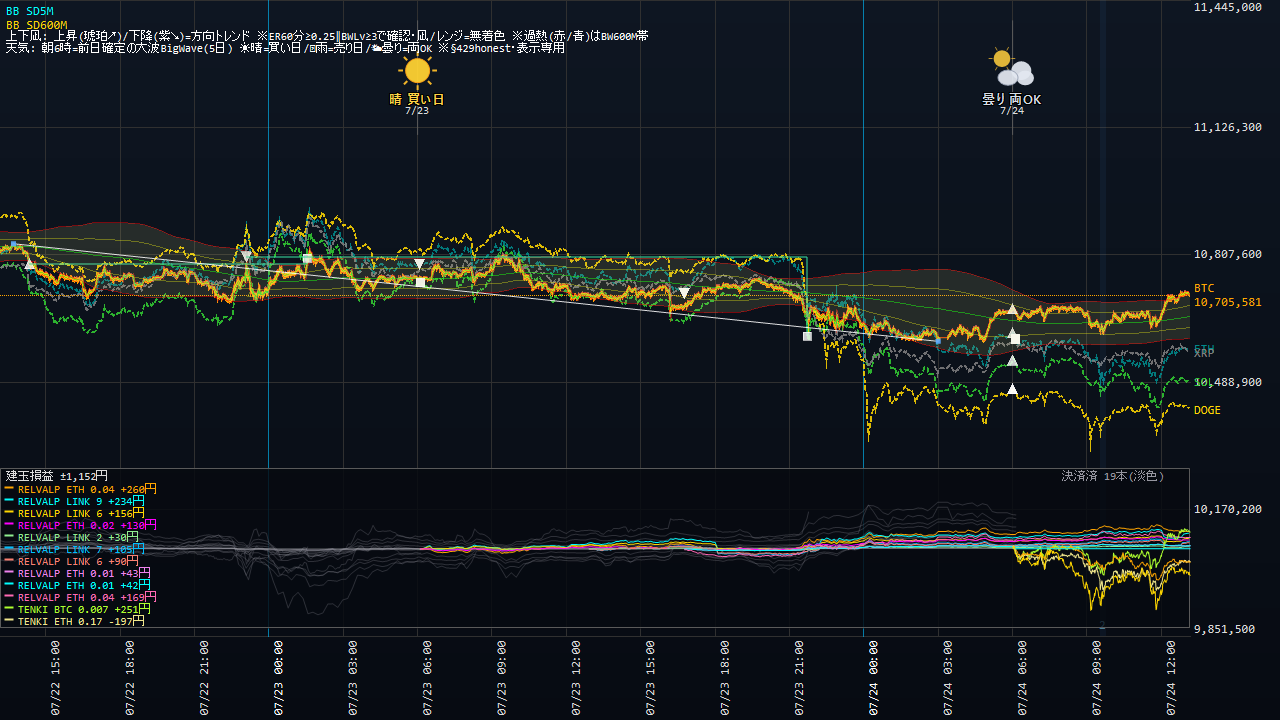
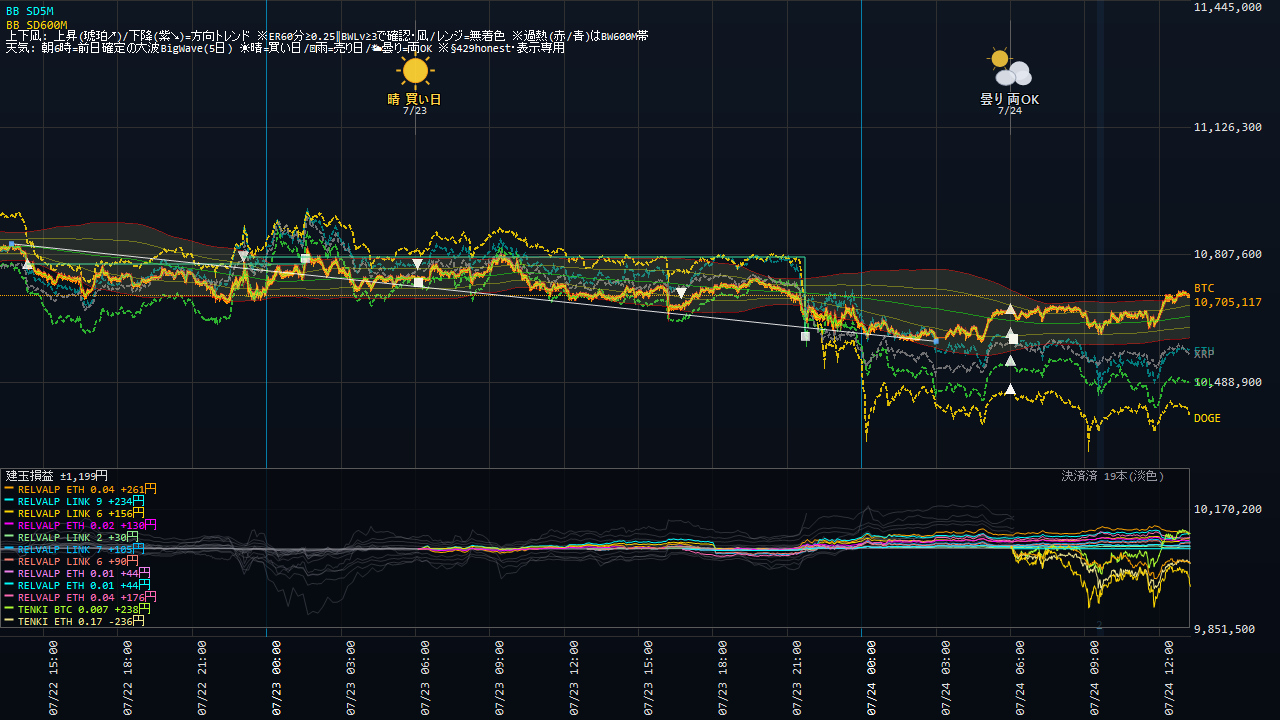
Coin100S 運用状況更新 07-24 13:17

diff --git a/coin100s-795hc4jfv8/index.html b/coin100s-795hc4jfv8/index.html
@@ -14,16 +14,16 @@ a{color:#60a5fa;text-decoration:none} a:hover{text-decoration:underline}
 .meta{color:#94a3b8;font-size:13px}</style>
 <script>setTimeout(function(){location.replace(location.pathname+"?t="+Date.now());},300000);</script></head><body>
 <h1>Coin100S ダッシュボード</h1>
-<p class="meta">スナップショット: 2026-07-24 13:10:39(自動リロード・最新化)</p>
+<p class="meta">スナップショット: 2026-07-24 13:16:39(自動リロード・最新化)</p>
 <div class="cards">
 <div class="card">建玉数<div class="v">15</div></div>
 <div class="card">本日損益<div class="v pos">+2,290円</div></div>
-<div class="card">評価損益<div class="v pos">+746円</div></div>
+<div class="card">評価損益<div class="v pos">+445円</div></div>
 </div>
 <h2>現在の建玉</h2>
-<table><tr><th>銘柄</th><th>側</th><th>数量</th><th>建値</th><th>含損益</th><th>レッグ</th></tr><tr><td>BTC_JPY</td><td>BUY</td><td>0.007</td><td>@10,672,390</td><td>+233円</td><td>TENKI5D_REV_BTC</td></tr><tr><td>DOGE_JPY</td><td>BUY</td><td>6640</td><td>@11</td><td>-339円</td><td>TENKI5D_REV_DOGE</td></tr><tr><td>DOGE_JPY</td><td>BUY</td><td>10</td><td>@11</td><td>-1円</td><td>TENKI5D_REV_DOGE</td></tr><tr><td>ETH_JPY</td><td>BUY</td><td>0.17</td><td>@309,150</td><td>-175円</td><td>TENKI5D_REV_ETH</td></tr><tr><td>ETH_JPY</td><td>SELL</td><td>0.04</td><td>@312,191</td><td>+162円</td><td>RELVALP_SELL</td></tr><tr><td>ETH_JPY</td><td>SELL</td><td>0.01</td><td>@312,191</td><td>+40円</td><td>RELVALP_SELL</td></tr><tr><td>ETH_JPY</td><td>SELL</td><td>0.01</td><td>@312,216</td><td>+40円</td><td>RELVALP_SELL</td></tr><tr><td>ETH_JPY</td><td>SELL</td><td>0.02</td><td>@314,458</td><td>+126円</td><td>RELVALP_SL700</td></tr><tr><td>ETH_JPY</td><td>SELL</td><td>0.04</td><td>@314,458</td><td>+253円</td><td>RELVALP_SELL</td></tr><tr><td>LINK_JPY</td><td>SELL</td><td>6</td><td>@1,398</td><td>+84円</td><td>RELVALP_SL700</td></tr><tr><td>LINK_JPY</td><td>SELL</td><td>7</td><td>@1,398</td><td>+98円</td><td>RELVALP_SELL</td></tr><tr><td>LINK_JPY</td><td>SELL</td><td>2</td><td>@1,398</td><td>+28円</td><td>RELVALP_SELL</td></tr><tr><td>LINK_JPY</td><td>SELL</td><td>6</td><td>@1,409</td><td>+150円</td><td>RELVALP_SL700</td></tr><tr><td>LINK_JPY</td><td>SELL</td><td>9</td><td>@1,409</td><td>+225円</td><td>RELVALP_SELL</td></tr><tr><td>SOL_JPY</td><td>BUY</td><td>3.6</td><td>@12,472</td><td>-188円</td><td>TENKI5D_REV_SOL</td></tr></table>
+<table><tr><th>銘柄</th><th>側</th><th>数量</th><th>建値</th><th>含損益</th><th>レッグ</th></tr><tr><td>BTC_JPY</td><td>BUY</td><td>0.007</td><td>@10,672,390</td><td>+224円</td><td>TENKI5D_REV_BTC</td></tr><tr><td>DOGE_JPY</td><td>BUY</td><td>6640</td><td>@11</td><td>-538円</td><td>TENKI5D_REV_DOGE</td></tr><tr><td>DOGE_JPY</td><td>BUY</td><td>10</td><td>@11</td><td>-1円</td><td>TENKI5D_REV_DOGE</td></tr><tr><td>ETH_JPY</td><td>BUY</td><td>0.17</td><td>@309,150</td><td>-234円</td><td>TENKI5D_REV_ETH</td></tr><tr><td>ETH_JPY</td><td>SELL</td><td>0.04</td><td>@312,191</td><td>+176円</td><td>RELVALP_SELL</td></tr><tr><td>ETH_JPY</td><td>SELL</td><td>0.01</td><td>@312,191</td><td>+44円</td><td>RELVALP_SELL</td></tr><tr><td>ETH_JPY</td><td>SELL</td><td>0.01</td><td>@312,216</td><td>+44円</td><td>RELVALP_SELL</td></tr><tr><td>ETH_JPY</td><td>SELL</td><td>0.02</td><td>@314,458</td><td>+133円</td><td>RELVALP_SL700</td></tr><tr><td>ETH_JPY</td><td>SELL</td><td>0.04</td><td>@314,458</td><td>+267円</td><td>RELVALP_SELL</td></tr><tr><td>LINK_JPY</td><td>SELL</td><td>6</td><td>@1,398</td><td>+84円</td><td>RELVALP_SL700</td></tr><tr><td>LINK_JPY</td><td>SELL</td><td>7</td><td>@1,398</td><td>+98円</td><td>RELVALP_SELL</td></tr><tr><td>LINK_JPY</td><td>SELL</td><td>2</td><td>@1,398</td><td>+28円</td><td>RELVALP_SELL</td></tr><tr><td>LINK_JPY</td><td>SELL</td><td>6</td><td>@1,409</td><td>+150円</td><td>RELVALP_SL700</td></tr><tr><td>LINK_JPY</td><td>SELL</td><td>9</td><td>@1,409</td><td>+225円</td><td>RELVALP_SELL</td></tr><tr><td>SOL_JPY</td><td>BUY</td><td>3.6</td><td>@12,472</td><td>-256円</td><td>TENKI5D_REV_SOL</td></tr></table>
 <p><a href="status.html"><b>▶ 運用状況の詳細(チャート・本日の取引・レジーム)</b></a></p>
 <h2>日報一覧</h2>
 <table><tr><th>取引日</th><th>実現損益</th><th>総括</th></tr><tr><td><a href='reports/20260723_Coin100S日報.html'>2026-07-23</a></td><td class="pos">+0円</td><td class='meta'>実取引: 新規8件/決済3件、実現損益 +0円。警告/孤児/エラーなし＝健全。</td></tr><tr><td><a href='reports/20260722_Coin100S日報.html'>2026-07-22</a></td><td class="pos">+0円</td><td class='meta'>実取引: 新規10件/決済5件、実現損益 +0円。シグナル却下1件（最多: BW10M3_5M／トレンド方向ゲート(N分傾き下と不一致=逆張り方向のfade禁止)）。⚠警告/エラー 9件（要確認）。</td></tr><tr><td><a href='reports/20260721_Coin100S日報.html'>2026-07-21</a></td><td class="pos">+0円</td><td class='meta'>実取引: 新規4件/決済13件、実現損益 +0円。⚠警告/エラー 13件（要確認）。</td></tr><tr><td><a href='reports/20260720_Coin100S日報.html'>2026-07-20</a></td><td class="pos">+0円</td><td class='meta'>実取引: 新規8件/決済21件、実現損益 +0円。シグナル却下8件（最多: BW10M3_5M／トレンド方向ゲート(N分傾き上と不一致=逆張り方向のfade禁止)）。⚠警告/エラー 13件（要確認）。</td></tr><tr><td><a href='reports/20260719_Coin100S日報.html'>2026-07-19</a></td><td class="pos">+0円</td><td class='meta'>実取引: 新規10件/決済7件、実現損益 +0円。⚠警告/エラー 3件（要確認）。</td></tr><tr><td><a href='reports/20260718_Coin100S日報.html'>2026-07-18</a></td><td class="pos">+0円</td><td class='meta'>実取引: 新規9件/決済8件、実現損益 +0円。警告/孤児/エラーなし＝健全。</td></tr><tr><td><a href='reports/20260717_Coin100S日報.html'>2026-07-17</a></td><td class="pos">+0円</td><td class='meta'>実取引: 新規3件/決済2件、実現損益 +0円。シグナル却下1件（最多: BW10M3_5M／トレンド方向ゲート(N分傾き下と不一致=逆張り方向のfade禁止)）。⚠警告/エラー 2件（要確認）。</td></tr><tr><td><a href='reports/20260716_Coin100S日報.html'>2026-07-16</a></td><td class="pos">+0円</td><td class='meta'>実取引: 新規0件/決済5件、実現損益 +0円。⚠警告/エラー 7件（要確認）。</td></tr><tr><td><a href='reports/20260715_Coin100S日報.html'>2026-07-15</a></td><td class="pos">+0円</td><td class='meta'>実取引: 新規6件/決済5件、実現損益 +0円。シグナル却下6件（最多: BW10M3_5M／トレンド方向ゲート(N分傾き上と不一致=逆張り方向のfade禁止)）。⚠警告/エラー 7件（要確認）。</td></tr><tr><td><a href='reports/20260714_Coin100S日報.html'>2026-07-14</a></td><td class="pos">+0円</td><td class='meta'>実取引: 新規6件/決済18件、実現損益 +0円。シグナル却下5件（最多: BW10M3_5M／トレンド方向ゲート(N分傾き上と不一致=逆張り方向のfade禁止)）。⚠警告/エラー 9件（要確認）。</td></tr><tr><td><a href='reports/20260713_Coin100S日報.html'>2026-07-13</a></td><td class="pos">+0円</td><td class='meta'>実取引: 新規5件/決済8件、実現損益 +0円。シグナル却下1件（最多: BW10M3_5M／トレンド方向ゲート(N分傾き上と不一致=逆張り方向のfade禁止)）。警告/孤児/エラーなし＝健全。</td></tr><tr><td><a href='reports/20260712_Coin100S日報.html'>2026-07-12</a></td><td class="pos">+0円</td><td class='meta'>実取引: 新規14件/決済6件、実現損益 +0円。シグナル却下5件（最多: BW10M3_5M／トレンド方向ゲート(N分傾き下と不一致=逆張り方向のfade禁止)）。⚠警告/エラー 2件（要確認）。</td></tr><tr><td><a href='reports/20260711_Coin100S日報.html'>2026-07-11</a></td><td class="pos">+0円</td><td class='meta'>実取引: 新規7件/決済6件、実現損益 +0円。⚠警告/エラー 52件（要確認）。</td></tr><tr><td><a href='reports/20260710_Coin100S日報.html'>2026-07-10</a></td><td class="pos">+0円</td><td class='meta'>実取引: 新規7件/決済6件、実現損益 +0円。シグナル却下6件（最多: BW10M3_5M／トレンド方向ゲート(N分傾き上と不一致=逆張り方向のfade禁止)）。警告/孤児/エラーなし＝健全。</td></tr><tr><td><a href='reports/20260709_Coin100S日報.html'>2026-07-09</a></td><td class="pos">+0円</td><td class='meta'>実取引: 新規8件/決済3件、実現損益 +0円。シグナル却下5件（最多: SD120M_5M／トレンド方向ゲート(N分傾き上と不一致=逆張り方向のfade禁止)）。警告/孤児/エラーなし＝健全。</td></tr><tr><td><a href='reports/20260708_Coin100S日報.html'>2026-07-08</a></td><td class="pos">+0円</td><td class='meta'>実取引: 新規2件/決済4件、実現損益 +0円。シグナル却下4件（最多: SD120M_5M／トレンド方向ゲート(N分傾き下と不一致=逆張り方向のfade禁止)）。警告/孤児/エラーなし＝健全。</td></tr><tr><td><a href='reports/20260707_Coin100S日報.html'>2026-07-07</a></td><td class="pos">+0円</td><td class='meta'>実取引: 新規8件/決済6件、実現損益 +0円。シグナル却下4件（最多: SD120M_5M／トレンド方向ゲート(N分傾き上と不一致=逆張り方向のfade禁止)）。⚠警告/エラー 258件（要確認）。</td></tr><tr><td><a href='reports/20260706_Coin100S日報.html'>2026-07-06</a></td><td class="pos">+0円</td><td class='meta'>実取引: 新規9件/決済6件、実現損益 +0円。シグナル却下9件（最多: SD120M_5M／トレンド方向ゲート(N分傾き上と不一致=逆張り方向のfade禁止)）。⚠警告/エラー 150件（要確認）。</td></tr><tr><td><a href='reports/20260705_Coin100S日報.html'>2026-07-05</a></td><td class="pos">+0円</td><td class='meta'>実取引: 新規8件/決済3件、実現損益 +0円。⚠警告/エラー 2件（要確認）。</td></tr><tr><td><a href='reports/20260704_Coin100S日報.html'>2026-07-04</a></td><td class="pos">+0円</td><td class='meta'>実取引: 新規1件/決済2件、実現損益 +0円。⚠警告/エラー 2件（要確認）。</td></tr><tr><td><a href='reports/20260703_Coin100S日報.html'>2026-07-03</a></td><td class="pos">+0円</td><td class='meta'>実取引: 新規5件/決済4件、実現損益 +0円。⚠警告/エラー 15件（要確認）。</td></tr><tr><td><a href='reports/20260702_Coin100S日報.html'>2026-07-02</a></td><td class="pos">+0円</td><td class='meta'>実取引: 新規7件/決済5件、実現損益 +0円。シグナル却下17件（最多: SD120M_5M／トレンド方向ゲート(N分傾き上と不一致=逆張り方向のfade禁止)）。⚠警告/エラー 26件（要確認）。</td></tr><tr><td><a href='reports/20260701_Coin100S日報.html'>2026-07-01</a></td><td class="pos">+0円</td><td class='meta'>実取引: 新規14件/決済8件、実現損益 +0円。シグナル却下14件（最多: SD120M_5M／ボラ軸ゲート(SDN%&amp;gt;N%=高ボラ/荒れレンジ)）。⚠警告/エラー 2件（要確認）。</td></tr><tr><td><a href='reports/20260630_Coin100S日報.html'>2026-06-30</a></td><td class="pos">+0円</td><td class='meta'>実取引: 新規0件/決済1件、実現損益 +0円。シグナル却下29件（最多: 微5M／当日枠N）。警告/孤児/エラーなし＝健全。</td></tr></table>
-<hr><p class="meta">更新: 2026-07-24 13:11:06 / 自動生成: tools/web_publish.py(§580)</p>
+<hr><p class="meta">更新: 2026-07-24 13:17:06 / 自動生成: tools/web_publish.py(§580)</p>
 </body></html>

diff --git a/coin100s-795hc4jfv8/status.html b/coin100s-795hc4jfv8/status.html
@@ -14,22 +14,22 @@ a{color:#60a5fa;text-decoration:none} a:hover{text-decoration:underline}
 .meta{color:#94a3b8;font-size:13px}</style>
 <script>setTimeout(function(){location.replace(location.pathname+"?t="+Date.now());},300000);</script></head><body>
 <h1>Coin100S 運用状況</h1>
-<p class="meta">スナップショット: 2026-07-24 13:10:39 / ページ生成: 2026-07-24 13:11:06(自動リロード・最新化) / <a href="index.html">目次へ</a></p>
+<p class="meta">スナップショット: 2026-07-24 13:16:39 / ページ生成: 2026-07-24 13:17:06(自動リロード・最新化) / <a href="index.html">目次へ</a></p>
 <div class="cards">
 <div class="card">建玉数<div class="v">15</div></div>
 <div class="card">本日損益<div class="v pos">+2,290円</div></div>
-<div class="card">評価損益<div class="v pos">+746円</div></div>
+<div class="card">評価損益<div class="v pos">+445円</div></div>
 </div>
 <h2>資産推移(直近30日)</h2>
-<img src="status_equity.png?t=1311" alt="equity">
+<img src="status_equity.png?t=1317" alt="equity">
 <h2>取引チャート(直近24h)</h2>
-<img src="status_chart.png?t=1311" alt="chart">
+<img src="status_chart.png?t=1317" alt="chart">
 <h2>建玉一覧</h2>
-<table><tr><th>銘柄</th><th>側</th><th>数量</th><th>建値</th><th>含損益</th><th>レッグ</th></tr><tr><td>BTC_JPY</td><td>BUY</td><td>0.007</td><td>@10,672,390</td><td>+233円</td><td>TENKI5D_REV_BTC</td></tr><tr><td>DOGE_JPY</td><td>BUY</td><td>6640</td><td>@11</td><td>-339円</td><td>TENKI5D_REV_DOGE</td></tr><tr><td>DOGE_JPY</td><td>BUY</td><td>10</td><td>@11</td><td>-1円</td><td>TENKI5D_REV_DOGE</td></tr><tr><td>ETH_JPY</td><td>BUY</td><td>0.17</td><td>@309,150</td><td>-175円</td><td>TENKI5D_REV_ETH</td></tr><tr><td>ETH_JPY</td><td>SELL</td><td>0.04</td><td>@312,191</td><td>+162円</td><td>RELVALP_SELL</td></tr><tr><td>ETH_JPY</td><td>SELL</td><td>0.01</td><td>@312,191</td><td>+40円</td><td>RELVALP_SELL</td></tr><tr><td>ETH_JPY</td><td>SELL</td><td>0.01</td><td>@312,216</td><td>+40円</td><td>RELVALP_SELL</td></tr><tr><td>ETH_JPY</td><td>SELL</td><td>0.02</td><td>@314,458</td><td>+126円</td><td>RELVALP_SL700</td></tr><tr><td>ETH_JPY</td><td>SELL</td><td>0.04</td><td>@314,458</td><td>+253円</td><td>RELVALP_SELL</td></tr><tr><td>LINK_JPY</td><td>SELL</td><td>6</td><td>@1,398</td><td>+84円</td><td>RELVALP_SL700</td></tr><tr><td>LINK_JPY</td><td>SELL</td><td>7</td><td>@1,398</td><td>+98円</td><td>RELVALP_SELL</td></tr><tr><td>LINK_JPY</td><td>SELL</td><td>2</td><td>@1,398</td><td>+28円</td><td>RELVALP_SELL</td></tr><tr><td>LINK_JPY</td><td>SELL</td><td>6</td><td>@1,409</td><td>+150円</td><td>RELVALP_SL700</td></tr><tr><td>LINK_JPY</td><td>SELL</td><td>9</td><td>@1,409</td><td>+225円</td><td>RELVALP_SELL</td></tr><tr><td>SOL_JPY</td><td>BUY</td><td>3.6</td><td>@12,472</td><td>-188円</td><td>TENKI5D_REV_SOL</td></tr></table>
+<table><tr><th>銘柄</th><th>側</th><th>数量</th><th>建値</th><th>含損益</th><th>レッグ</th></tr><tr><td>BTC_JPY</td><td>BUY</td><td>0.007</td><td>@10,672,390</td><td>+224円</td><td>TENKI5D_REV_BTC</td></tr><tr><td>DOGE_JPY</td><td>BUY</td><td>6640</td><td>@11</td><td>-538円</td><td>TENKI5D_REV_DOGE</td></tr><tr><td>DOGE_JPY</td><td>BUY</td><td>10</td><td>@11</td><td>-1円</td><td>TENKI5D_REV_DOGE</td></tr><tr><td>ETH_JPY</td><td>BUY</td><td>0.17</td><td>@309,150</td><td>-234円</td><td>TENKI5D_REV_ETH</td></tr><tr><td>ETH_JPY</td><td>SELL</td><td>0.04</td><td>@312,191</td><td>+176円</td><td>RELVALP_SELL</td></tr><tr><td>ETH_JPY</td><td>SELL</td><td>0.01</td><td>@312,191</td><td>+44円</td><td>RELVALP_SELL</td></tr><tr><td>ETH_JPY</td><td>SELL</td><td>0.01</td><td>@312,216</td><td>+44円</td><td>RELVALP_SELL</td></tr><tr><td>ETH_JPY</td><td>SELL</td><td>0.02</td><td>@314,458</td><td>+133円</td><td>RELVALP_SL700</td></tr><tr><td>ETH_JPY</td><td>SELL</td><td>0.04</td><td>@314,458</td><td>+267円</td><td>RELVALP_SELL</td></tr><tr><td>LINK_JPY</td><td>SELL</td><td>6</td><td>@1,398</td><td>+84円</td><td>RELVALP_SL700</td></tr><tr><td>LINK_JPY</td><td>SELL</td><td>7</td><td>@1,398</td><td>+98円</td><td>RELVALP_SELL</td></tr><tr><td>LINK_JPY</td><td>SELL</td><td>2</td><td>@1,398</td><td>+28円</td><td>RELVALP_SELL</td></tr><tr><td>LINK_JPY</td><td>SELL</td><td>6</td><td>@1,409</td><td>+150円</td><td>RELVALP_SL700</td></tr><tr><td>LINK_JPY</td><td>SELL</td><td>9</td><td>@1,409</td><td>+225円</td><td>RELVALP_SELL</td></tr><tr><td>SOL_JPY</td><td>BUY</td><td>3.6</td><td>@12,472</td><td>-256円</td><td>TENKI5D_REV_SOL</td></tr></table>
 <h2>実現決済履歴(直近15件・OrderId単位)</h2>
 <table><tr><th>決済時刻</th><th>レッグ</th><th>銘柄</th><th>実現損益</th></tr><tr><td>07-24 06:08</td><td>RELVALP_SELL</td><td>XRP</td><td class="pos">+140円</td></tr><tr><td>07-24 06:08</td><td>RELVALP_SELL</td><td>XRP</td><td class="pos">+511円</td></tr><tr><td>07-24 06:08</td><td>RELVALP_SELL</td><td>ADA</td><td class="pos">+451円</td></tr><tr><td>07-24 06:08</td><td>RELVALP_SL700</td><td>ADA</td><td class="pos">+222円</td></tr><tr><td>07-24 06:08</td><td>RELVALP_SELL</td><td>XRP</td><td class="pos">+298円</td></tr><tr><td>07-24 06:08</td><td>RELVALP_SL700</td><td>XRP</td><td class="pos">+329円</td></tr><tr><td>07-24 06:08</td><td>RELVALP_SL700</td><td>ADA</td><td class="pos">+64円</td></tr><tr><td>07-24 06:08</td><td>RELVALP_SELL</td><td>XRP</td><td class="pos">+32円</td></tr><tr><td>07-24 06:08</td><td>RELVALP_SELL</td><td>ADA</td><td class="pos">+112円</td></tr><tr><td>07-24 06:08</td><td>RELVALP_SL700</td><td>XRP</td><td class="pos">+131円</td></tr><tr><td>07-23 21:46</td><td>SIGFADE_SOL</td><td>SOL</td><td class="pos">+557円</td></tr><tr><td>07-23 06:08</td><td>RELVALP_SELL</td><td>SOL</td><td class="neg">-67円</td></tr><tr><td>07-23 06:08</td><td>RELVALP_SL700</td><td>SOL</td><td class="neg">-21円</td></tr><tr><td>07-23 01:34</td><td>SIGFADE_BTC</td><td>BTC</td><td class="pos">+27円</td></tr><tr><td>07-22 09:08</td><td>SIGFADE_SOL</td><td>SOL</td><td class="pos">+220円</td></tr></table>
 <!-- §799c 「本取引日の実取引(6:00起点)」テーブルは公開ページから削除(ユーザー指示2026-07-15・数量/指値まで晒す情報漏れ)。建玉/実現損益は許可・実発注の生取引明細は非公開 -->
 <h2>現在レジーム(3軸・§570c)</h2>
-<ul><li>アルト対BTC 5日: <b>-57bps</b>(アルト劣後=RELVAL順風)</li><li>BTC ER240m: <b>0.104</b>(閾値0.25→レンジ(fade順風/BWTRD逆風))</li><li>BTC実現ボラ240m: <b>3.79</b> bps/分</li></ul>
+<ul><li>アルト対BTC 5日: <b>-57bps</b>(アルト劣後=RELVAL順風)</li><li>BTC ER240m: <b>0.101</b>(閾値0.25→レンジ(fade順風/BWTRD逆風))</li><li>BTC実現ボラ240m: <b>3.78</b> bps/分</li></ul>
 <hr><p class="meta">自動生成: tools/web_publish.py(§580・読み取り専用)。売買判断はアプリ本体。</p>
 </body></html>
